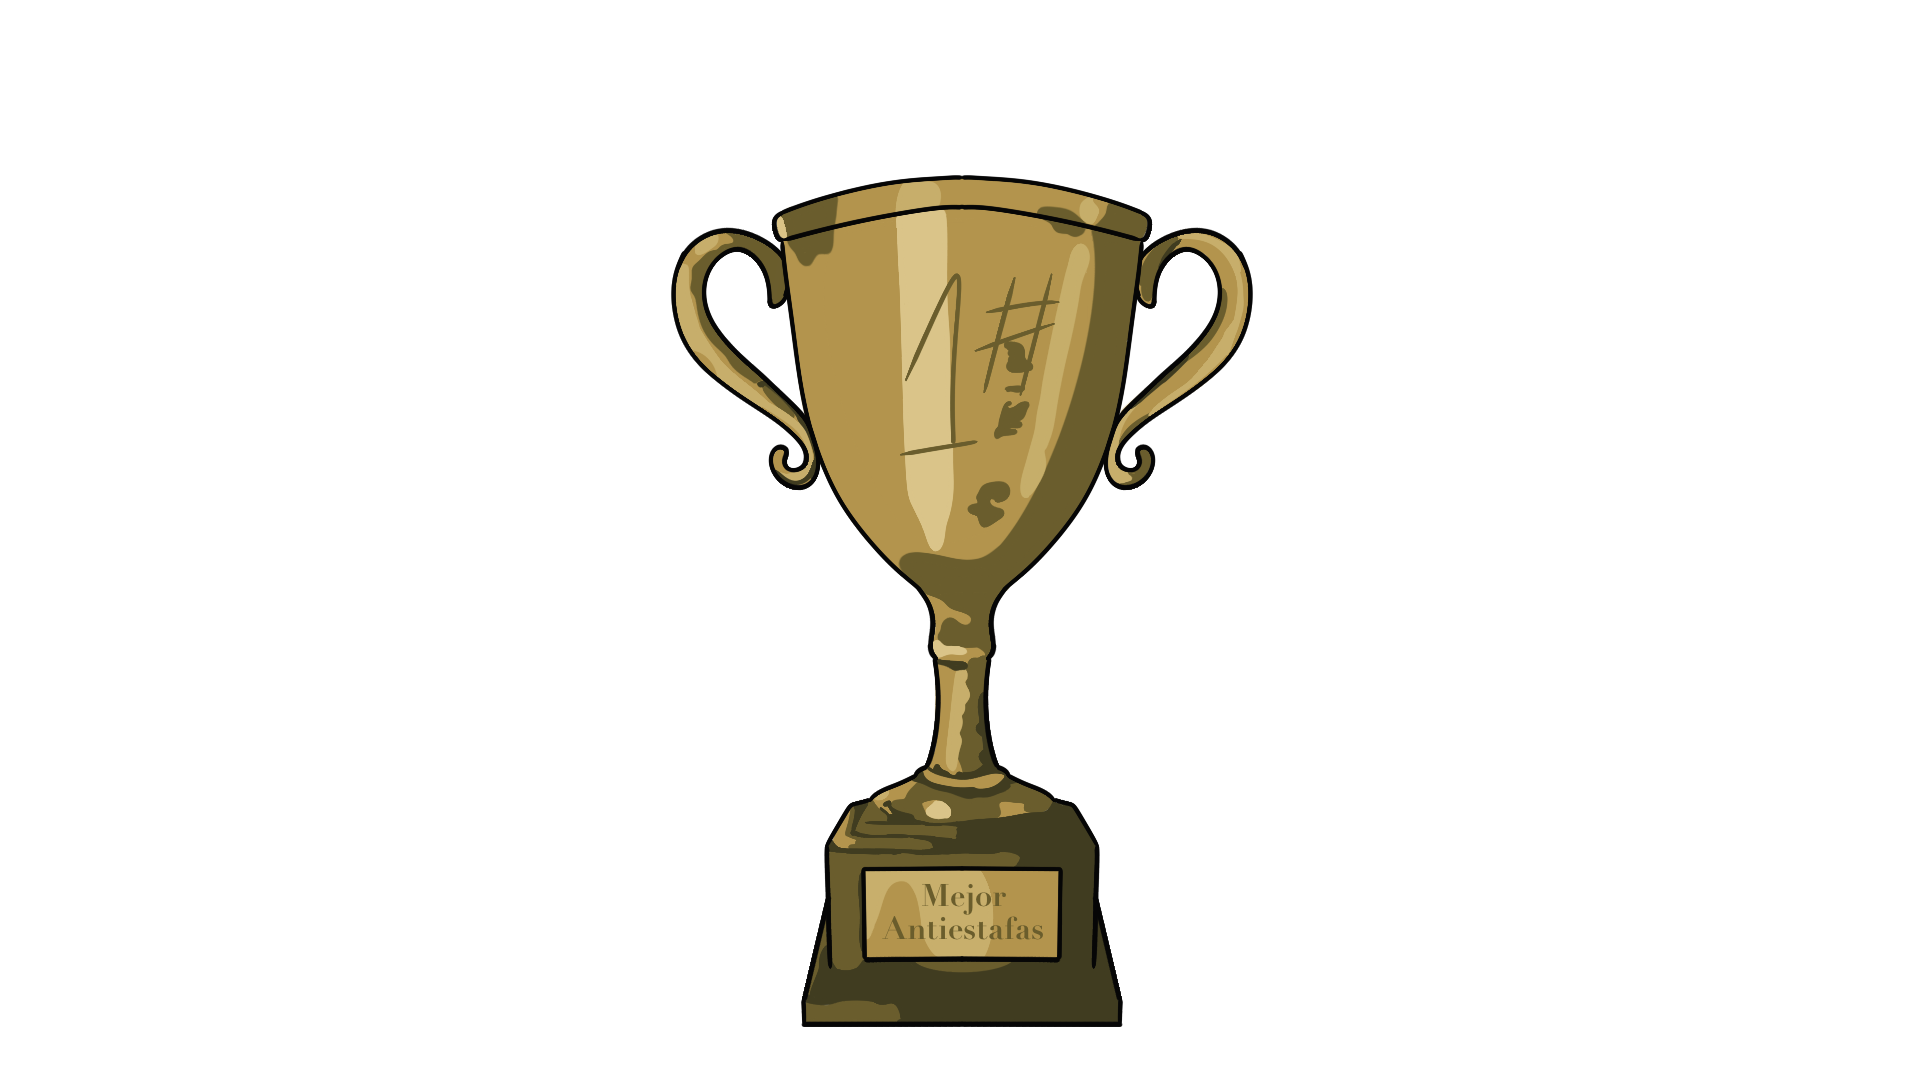
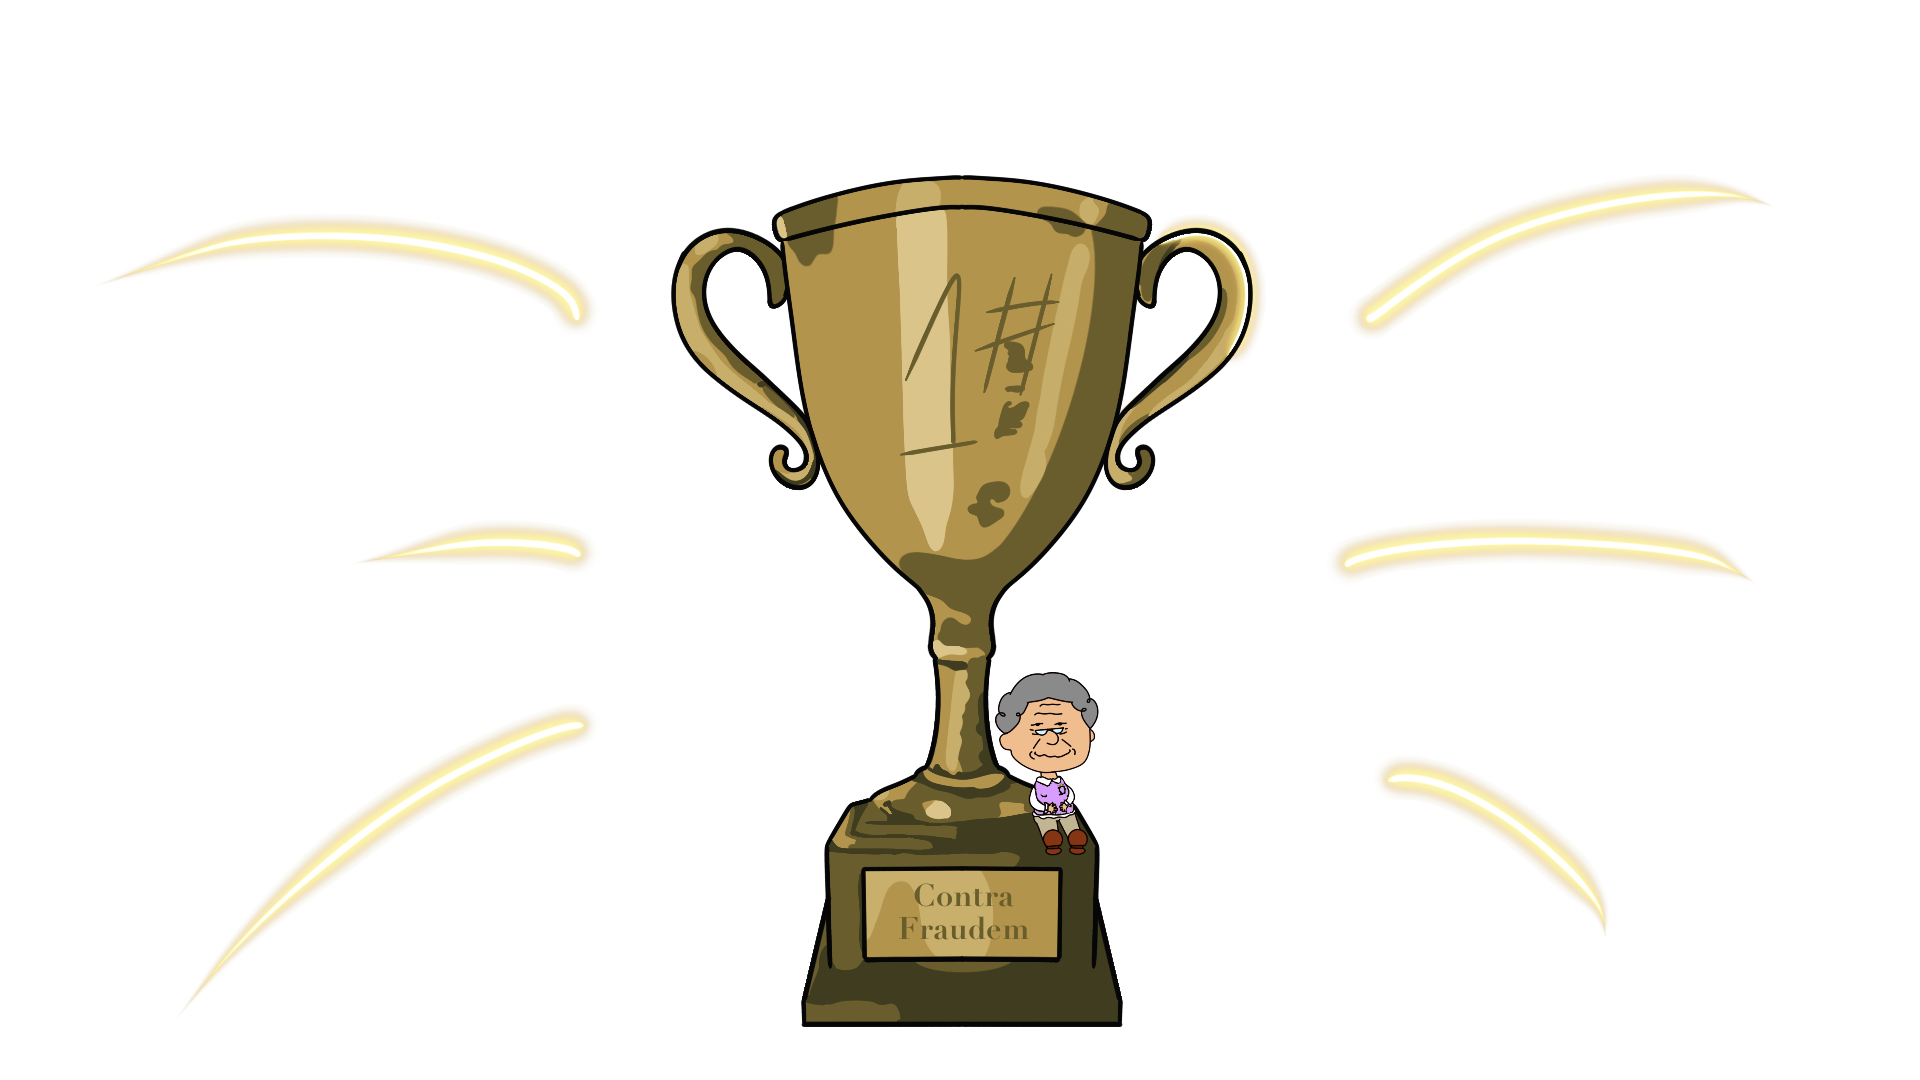
arreglos textos

diff --git a/docs/src/bocadillos.js b/docs/src/bocadillos.js
@@ -8,75 +8,46 @@ export default class Bocadillos extends Phaser.GameObjects.Container {
         this.lastMusic = lastMusic;
         this.textos = textoInicial;
         this.buttonEffect = this.scene.game.audioManager.fx("buttonClick");
-        // Crear el cuadro
+
+        //Cuadro principal
         this.cuadro = this.scene.add.image(
             this.scene.cameras.main.width / 1.55,
             this.scene.cameras.main.height / 4.4,
             'cuadroTexto'
         ).setScale(0.6);
 
-        // Obtener posición central real del cuadro
         const cuadroCenter = this.cuadro.getCenter();
-
-        // Obtener dimensiones reales escaladas
         const maxWidth = this.cuadro.displayWidth * 0.9;
         const maxHeight = this.cuadro.displayHeight * 0.9;
 
-        // Función para texto escalable
-        const crearTextoEscalable = (x, y, textoStr, maxWidth, maxHeight) => {
-            let fontSize = 20;
-            let txt = this.scene.add.text(x, y, textoStr, {
-                fontFamily: 'Georgia, "Times New Roman", serif',
-                fontSize: `${fontSize}px`,
-                color: '#000000ff',
-                stroke: '#000000',
-                strokeThickness: 0.8,
-                align: 'center',
-                wordWrap: { width: maxWidth, useAdvancedWrap: true }
-            }).setOrigin(0.5, 0.5);
-
-            const paddingTop = 30; // margen superior más pequeño
-            const paddingBottom = 50; // mantener margen inferior
-
-            // Reducir fuente hasta que ancho y alto encajen
-            while ((txt.width > maxWidth || txt.height > maxHeight - paddingBottom) && fontSize > 8) {
-                fontSize -= 1;
-                txt.setFontSize(fontSize);
-                txt.setWordWrapWidth(maxWidth); // recalcula wordWrap con la nueva fuente
-            }
-
-            // Ajustar posición vertical para reducir margen superior
-            const cuadroCentroY = y;
-            txt.setY(cuadroCentroY - (paddingBottom - paddingTop) / 2);
-
-            return txt;
-        }
-
-
-        // Crear texto centrado en el cuadro
-        this.caso1 = crearTextoEscalable(
+        //autoescalado
+        this.caso1 = this.crearTextoMaximoEnCuadro(
             cuadroCenter.x,
             cuadroCenter.y,
             this.textos.comienzo.mIni,
             maxWidth,
-            maxHeight
+            maxHeight,
+            { top: 40, right: 20, bottom: 30, left: 20 }
         );
 
+        //fondos mociles segun tipo
         if (tipoEstafa === this.scene.textos.movil.SMS) {
-            this.enlace = this.scene.add.text(this.caso1.x, this.caso1.y + this.caso1.height / 1, this.textos.comienzo.enlace, {
-                fontFamily: 'Georgia, "Times New Roman", serif',
-                fontSize: '20px',
-                color: '#0011ffff',
-                stroke: '#1e00ffff',
-                strokeThickness: 1,
-                align: 'center'
-            }).setOrigin(0.5);
+            this.enlace = this.scene.add.text(this.caso1.x, this.caso1.y + this.caso1.height / 1.5,
+                this.textos.comienzo.enlace,
+                {
+                    fontFamily: 'Georgia, "Times New Roman", serif',
+                    fontSize: '20px',
+                    color: '#0011ffff',
+                    stroke: '#1e00ffff',
+                    strokeThickness: 1,
+                    align: 'center'
+                }).setOrigin(0.5);
 
-            //dibuja linea debajo del texto
             const underline = this.scene.add.graphics();
-            underline.lineStyle(2, 0x0011ff, 1); //grosor, color, alpha
+            underline.lineStyle(2, 0x0011ff, 1);
             const bounds = this.enlace.getBounds();
             underline.strokeLineShape(new Phaser.Geom.Line(bounds.x, bounds.bottom + 2, bounds.right, bounds.bottom + 2));
+
             this.fondoMovil = this.scene.add.image(0, 0, 'fondoSMS');
             this.fondoMovil.setScale(this.scene.cameras.main.height / this.fondoMovil.height);
             this.fondoMovil.setDisplaySize(this.fondoMovil.width * this.scene.cameras.main.height / this.fondoMovil.height, this.scene.cameras.main.height);
@@ -94,81 +65,75 @@ export default class Bocadillos extends Phaser.GameObjects.Container {
             this.fondoMovil.setDisplaySize(this.fondoMovil.width * this.scene.cameras.main.height / this.fondoMovil.height, this.scene.cameras.main.height);
             this.fondoMovil.setPosition(this.scene.cameras.main.width / 2.25, this.scene.cameras.main.height / 2);
         }
-        this.padding = this.scene.cameras.main.width / 9.5;//12.8
+
+        this.padding = this.scene.cameras.main.width / 9.5;
         this.topY = this.cuadro.y + this.padding * 1.8;
         this.gestV = vidas;
     }
 
-    //dependiendo del numero de respuestas pone un bocadillo
+    
+    crearTextoMaximoEnCuadro(x, y, textoStr, maxWidth, maxHeight, padding) {
+
+        const usableWidth = maxWidth - padding.left - padding.right;
+        const usableHeight = maxHeight - padding.top - padding.bottom;
+
+        let fontSize = 40;
+
+        let txt = this.scene.add.text(x, y, textoStr, {
+            fontFamily: 'Georgia, "Times New Roman", serif',
+            fontSize: `${fontSize}px`,
+            color: '#000000ff',
+            stroke: '#000000',
+            strokeThickness: 1,
+            align: 'center',
+            wordWrap: { width: usableWidth, useAdvancedWrap: true }
+        }).setOrigin(0.5);
+
+        while ((txt.width > usableWidth || txt.height > usableHeight) && fontSize > 8) {
+            fontSize -= 1;
+            txt.setFontSize(fontSize);
+            txt.setWordWrapWidth(usableWidth);
+        }
+
+        // Reposición vertical respetando padding superior/inferior
+        txt.y = y - (padding.top - padding.bottom) / 2;
+
+        return txt;
+    }
+
     ponerBocadillos(opcionesArray) {
-        //? para comprobar si es un objeto definido, si no lo es simplemente no hace la funcion y no falla.
         this.bocadillo1?.destroy();
         this.bocadillo2?.destroy();
         this.bocadillo3?.destroy();
         this.bocadillo4?.destroy();
-        if (!opcionesArray || opcionesArray.length == 0) return; // seguridad
-        const keys = Object.keys(opcionesArray); // ["1","2","3"]
+        if (!opcionesArray || opcionesArray.length == 0) return;
+
+        const keys = Object.keys(opcionesArray);
 
         switch (keys.length) {
-            case 2: {
-                // Dos bocadillos grandes
-                this.bocadillo1 = this.scene.add.image(
-                    this.caso1.x,
-                    this.topY - this.padding * 0.002,
-                    "bocadilloG"
-                ).setOrigin(0.5, 0.5).setScale(0.6).setInteractive();
-
-                this.bocadillo2 = this.scene.add.image(
-                    this.caso1.x,
-                    this.topY + this.bocadillo1.height / 1.9,
-                    "bocadilloG"
-                ).setOrigin(0.5, 0.5).setScale(0.6).setInteractive();
+            case 2:
+                this.bocadillo1 = this.scene.add.image(this.caso1.x, this.topY - this.padding * 0.002, "bocadilloG").setOrigin(0.5).setScale(0.6).setInteractive();
+                this.bocadillo2 = this.scene.add.image(this.caso1.x, this.topY + this.bocadillo1.height / 1.9, "bocadilloG").setOrigin(0.5).setScale(0.6).setInteractive();
                 break;
-            }
-            case 3: {
-                // Tres opciones: 2 pequeños arriba, 1 grande abajo
 
-                // Bocadillo pequeño izquierda
-                this.bocadillo1 = this.scene.add.image(
-                    this.caso1.x - this.padding, // separar un poco a la izquierda
-                    this.topY,
-                    "bocadilloP"
-                ).setOrigin(0.5, 0.5).setScale(0.6).setInteractive();
-
-                // Bocadillo pequeño derecha
-                this.bocadillo2 = this.scene.add.image(
-                    this.caso1.x + this.padding, // separar un poco a la derecha
-                    this.topY,
-                    "bocadilloP"
-                ).setOrigin(0.5, 0.5).setScale(0.6).setInteractive();
-
-                // Bocadillo grande abajo
-                this.bocadillo3 = this.scene.add.image(
-                    this.caso1.x,
-                    this.topY + this.bocadillo1.height / 1.7,
-                    "bocadilloG"
-                ).setOrigin(0.5, 0.5).setScale(0.6).setInteractive();
+            case 3:
+                this.bocadillo1 = this.scene.add.image(this.caso1.x - this.padding, this.topY, "bocadilloP").setOrigin(0.5).setScale(0.6).setInteractive();
+                this.bocadillo2 = this.scene.add.image(this.caso1.x + this.padding, this.topY, "bocadilloP").setOrigin(0.5).setScale(0.6).setInteractive();
+                this.bocadillo3 = this.scene.add.image(this.caso1.x, this.topY + this.bocadillo1.height / 1.7, "bocadilloG").setOrigin(0.5).setScale(0.6).setInteractive();
                 break;
-            }
-            case 4: {
-                // fila superior
-                this.bocadillo1 = this.scene.add.image(this.caso1.x - this.padding, this.topY, "bocadilloP").setOrigin(0.5, 0.5).setScale(0.6).setInteractive();
-                this.bocadillo2 = this.scene.add.image(this.caso1.x + this.padding, this.topY, "bocadilloP").setOrigin(0.5, 0.5).setScale(0.6).setInteractive();
 
-                // fila inferior
-                this.bocadillo3 = this.scene.add.image(this.caso1.x - this.padding, this.topY + this.bocadillo1.height / 1.7, "bocadilloP").setOrigin(0.5, 0.5).setScale(0.6).setInteractive();
-                this.bocadillo4 = this.scene.add.image(this.caso1.x + this.padding, this.topY + this.bocadillo1.height / 1.7, "bocadilloP").setOrigin(0.5, 0.5).setScale(0.6).setInteractive();
+            case 4:
+                this.bocadillo1 = this.scene.add.image(this.caso1.x - this.padding, this.topY, "bocadilloP").setOrigin(0.5).setScale(0.6).setInteractive();
+                this.bocadillo2 = this.scene.add.image(this.caso1.x + this.padding, this.topY, "bocadilloP").setOrigin(0.5).setScale(0.6).setInteractive();
+                this.bocadillo3 = this.scene.add.image(this.caso1.x - this.padding, this.topY + this.bocadillo1.height / 1.7, "bocadilloP").setOrigin(0.5).setScale(0.6).setInteractive();
+                this.bocadillo4 = this.scene.add.image(this.caso1.x + this.padding, this.topY + this.bocadillo1.height / 1.7, "bocadilloP").setOrigin(0.5).setScale(0.6).setInteractive();
                 break;
-            }
-            default:
-                console.warn("Número de opciones no soportado:", keys.length);
         }
-        //llamada a los botones
+
         this.ponerBotones(opcionesArray);
     }
 
     ponerTextos(opcionesArray) {
-        //borra los textos anteriores
         this.texto1?.destroy();
         this.texto2?.destroy();
         this.texto3?.destroy();
@@ -176,15 +141,13 @@ export default class Bocadillos extends Phaser.GameObjects.Container {
         if (!opcionesArray || opcionesArray.length == 0) return;
 
         const keys = Object.keys(opcionesArray);
-        const padding = this.scene.cameras.main.width / 9;
 
-        //funcion para crear texto escalado dentro del bocadillo
+        // Tu función antigua (se mantiene)
         const crearTexto = (bocadillo, textoStr) => {
-            //ancho y alto max
             const maxWidth = bocadillo.width * bocadillo.scaleX * 0.9;
             const maxHeight = bocadillo.height * bocadillo.scaleY * 0.9;
 
-            let fontSize = 18; //tam ini
+            let fontSize = 27;
             let txt = this.scene.add.text(bocadillo.x, bocadillo.y, textoStr, {
                 fontFamily: 'Georgia, "Times New Roman", serif',
                 fontSize: `${fontSize}px`,
@@ -193,16 +156,15 @@ export default class Bocadillos extends Phaser.GameObjects.Container {
                 strokeThickness: 1,
                 align: 'center',
                 wordWrap: { width: maxWidth, useAdvancedWrap: true }
-            }).setOrigin(0.5, 0.5);
+            }).setOrigin(0.5);
 
-            //hacer que encajen 
             while ((txt.width > maxWidth || txt.height > maxHeight) && fontSize > 8) {
                 fontSize -= 1;
                 txt.setFontSize(fontSize);
             }
 
             return txt;
-        }
+        };
 
         switch (keys.length) {
             case 2:
@@ -222,48 +184,50 @@ export default class Bocadillos extends Phaser.GameObjects.Container {
                 this.texto3 = crearTexto(this.bocadillo3, opcionesArray[2].texto);
                 this.texto4 = crearTexto(this.bocadillo4, opcionesArray[3].texto);
                 break;
-
-            default:
-                console.warn("Número de opciones no soportado:", keys.length);
         }
     }
 
-
-    //BOTONES
     ponerBotones(opcionesArray) {
         if (!opcionesArray || opcionesArray.length === 0) return;
 
-        // Función para actualizar el texto del cuadro y los bocadillos
         const actualizarCaso = (siguiente) => {
             if (siguiente === "acierto" || siguiente === "fallo") {
-                if (siguiente == "fallo")
-                    this.gestV.quitarVida();
-                if (siguiente == "acierto")
-                    this.gestV.addAciertos();
+                if (siguiente == "fallo") this.gestV.quitarVida();
+                if (siguiente == "acierto") this.gestV.addAciertos();
+
                 this.scene.scene?.pause('juego');
                 this.scene.scene?.pause('tutorial');
                 this.lastMusic?.stop();
-                this.scene.scene.launch('respuestaCasos', { respuesta: siguiente, textos: this.textos, vidas: this.gestV, musica: this.musicaMenu });
+                this.scene.scene.launch('respuestaCasos', {
+                    respuesta: siguiente,
+                    textos: this.textos,
+                    vidas: this.gestV,
+                    musica: this.musicaMenu
+                });
                 this.scene.scene.stop();
                 return;
             }
 
             this.caso1?.destroy();
 
-            // Calcular dimensiones del cuadro
             const maxWidth = this.cuadro.displayWidth * 0.9;
             const maxHeight = this.cuadro.displayHeight * 0.9;
             const cuadroCenter = this.cuadro.getCenter();
 
-            // Crear texto escalable
-            this.caso1 = this.crearTextoEscalable(cuadroCenter.x, cuadroCenter.y, this.textos[siguiente].mIni, maxWidth, maxHeight);
+           
+            this.caso1 = this.crearTextoMaximoEnCuadro(
+                cuadroCenter.x,
+                cuadroCenter.y,
+                this.textos[siguiente].mIni,
+                maxWidth,
+                maxHeight,
+                { top: 40, right: 20, bottom: 30, left: 20 }
+            );
 
-            // Actualizar bocadillos y textos
             this.ponerBocadillos(this.textos[siguiente].opciones);
             this.ponerTextos(this.textos[siguiente].opciones);
         };
 
-        // Lista de bocadillos
         const bocadillos = [this.bocadillo1, this.bocadillo2, this.bocadillo3, this.bocadillo4];
 
         bocadillos.forEach((bocadillo, index) => {
@@ -275,28 +239,4 @@ export default class Bocadillos extends Phaser.GameObjects.Container {
             });
         });
     }
-
-    // Función reusable para crear texto escalable
-    crearTextoEscalable(x, y, textoStr, maxWidth, maxHeight) {
-        let fontSize = 20;
-        let txt = this.scene.add.text(x, y, textoStr, {
-            fontFamily: 'Georgia, "Times New Roman", serif',
-            fontSize: `${fontSize}px`,
-            color: '#000000ff',
-            stroke: '#000000',
-            strokeThickness: 1,
-            align: 'center',
-            wordWrap: { width: maxWidth, useAdvancedWrap: true }
-        }).setOrigin(0.5, 0.5);
-
-        // Ajustar fuente hasta que encaje en ancho y alto
-        while ((txt.width > maxWidth || txt.height > maxHeight) && fontSize > 8) {
-            fontSize -= 1;
-            txt.setFontSize(fontSize);
-            txt.setWordWrapWidth(maxWidth);
-        }
-
-        return txt;
-    }
-
 }

diff --git a/docs/src/escenaVictoria.js b/docs/src/escenaVictoria.js
@@ -18,7 +18,7 @@ export default class Victoria extends Phaser.Scene {
         this.fondo.setPosition(this.cameras.main.width / 2, this.cameras.main.height / 2);
         //FONDO TRANSLUCIDO
         const { width, height } = this.scale;
-        this.add.rectangle(0, 0, width * 2, height * 2, 0x000000, 0.8).setOrigin(0);
+        this.add.rectangle(0, 0, width * 2, height * 2, 0x000000, 0.9).setOrigin(0);
 
         this.fondoV = this.add.image(0, 0, 'fondoVictoria').setInteractive({ useHandCursor: true });
         this.fondoV.setScale(this.cameras.main.height / this.fondo.height);
